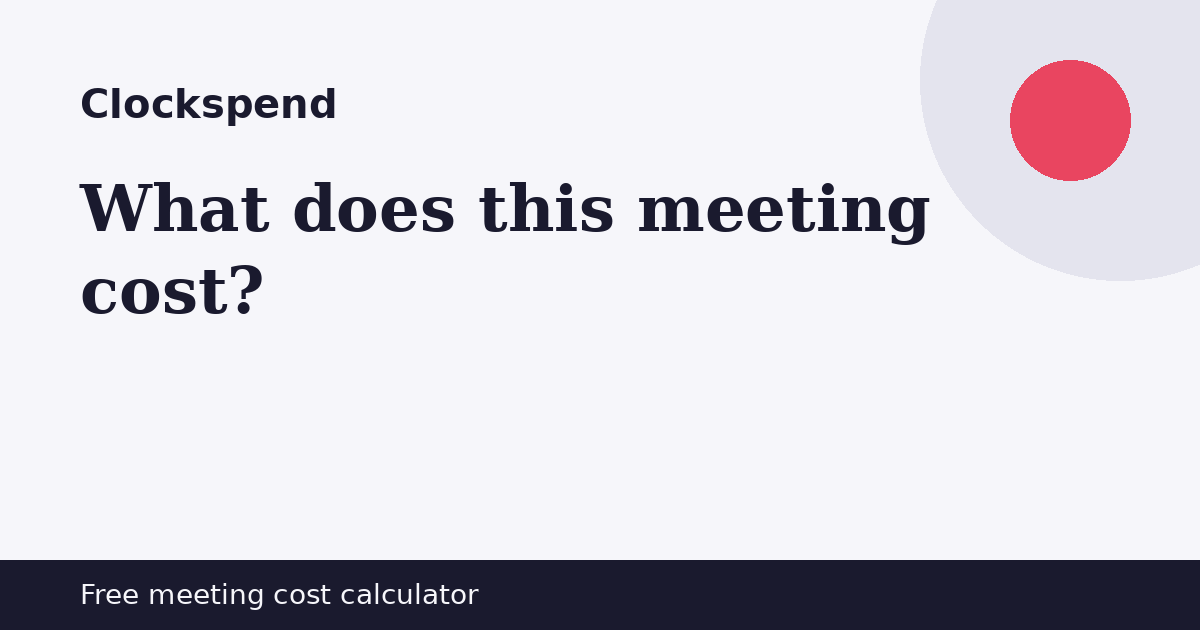
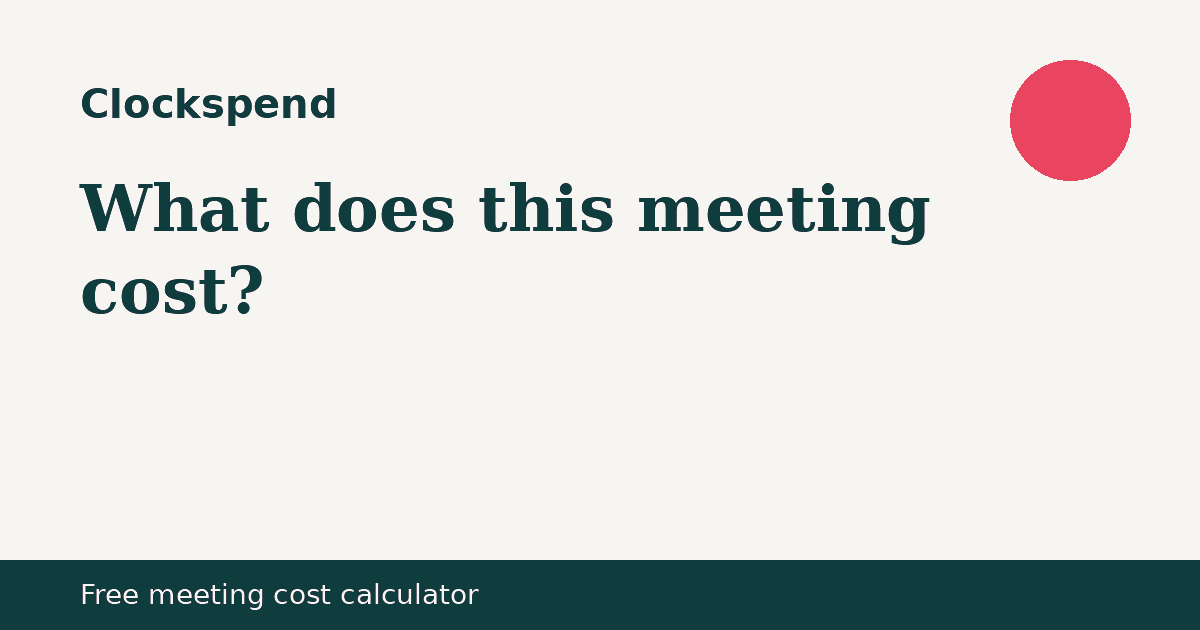
Publish site 2026-11-09 07:39 GMT

diff --git a/index.html b/index.html
@@ -7,7 +7,7 @@
 <meta name="referrer" content="strict-origin-when-cross-origin">
 <title>Clockspend: What does this meeting cost?</title>
 <meta name="description" content="A free calculator showing what a meeting costs in salary time.">
-<meta name="theme-color" content="#1A1A2E">
+<meta name="theme-color" content="#0F3D3E">
 <meta property="og:type" content="website"><meta property="og:title" content="Clockspend: What does this meeting cost?"><meta property="og:description" content="A free calculator showing what a meeting costs in salary time.">
 <meta property="og:image" content="https://evanturner557-del.github.io/clockspend/assets/og.png"><meta property="og:image:width" content="1200"><meta property="og:image:height" content="630">
 <meta property="og:image:alt" content="Clockspend: What does this meeting cost?"><meta property="og:site_name" content="Clockspend"><meta property="og:locale" content="en_GB">
@@ -21,9 +21,9 @@
 </head>
 <body>
 <a class="skip" href="#main">Skip to content</a>
-<header><div class="wrap top"><a class="brand" href="./"><svg viewBox="0 0 64 64" aria-hidden="true" width="34" height="34"><circle cx="32" cy="32" r="32" fill="#1A1A2E"/><text x="32" y="43" text-anchor="middle" font-family="Georgia, serif" font-weight="700" font-size="30" fill="#F6F6FA">C</text><circle cx="50" cy="50" r="6" fill="#E94560"/></svg>Clockspend</a><nav aria-label="Primary"><a href="#tool">The tool</a><a href="#faq">Questions</a><a href="#contact">Contact</a></nav></div></header>
+<header><div class="wrap top"><a class="brand" href="./"><svg viewBox="0 0 64 64" aria-hidden="true" width="34" height="34"><circle cx="32" cy="32" r="32" fill="#0F3D3E"/><text x="32" y="43" text-anchor="middle" font-family="Georgia, serif" font-weight="700" font-size="30" fill="#F7F5F2">C</text><circle cx="50" cy="50" r="6" fill="#E94560"/></svg>Clockspend</a><nav aria-label="Primary"><a href="#tool">The tool</a><a href="#faq">Questions</a><a href="#contact">Contact</a></nav></div></header>
 <main id="main">
-<section class="hero"><div class="wrap"><div class="inner"><div><span class="eyebrow">Free tool · Free meeting cost calculator</span><h1>What does this meeting cost?</h1><p class="lede">Enter the attendees, a typical hourly cost and the length. Clockspend shows the cost of the meeting in salary time. Worth a look before booking the next weekly catch-up.</p><div class="ctas"><a class="btn" href="#tool" data-cta="hero">Use the tool</a><a class="btn ghost" href="#faq" data-cta="hero-secondary">Questions</a></div></div><div class="art"><svg viewBox="0 0 400 400" aria-hidden="true" focusable="false" class="motif"><circle cx="200" cy="200" r="150" fill="#1A1A2E"/><circle cx="200" cy="200" r="130" fill="#F6F6FA"/><rect x="196" y="82" width="8" height="22" rx="4" fill="#1A1A2E" transform="rotate(0 200 200)"/><rect x="196" y="82" width="8" height="22" rx="4" fill="#1A1A2E" transform="rotate(30 200 200)"/><rect x="196" y="82" width="8" height="22" rx="4" fill="#1A1A2E" transform="rotate(60 200 200)"/><rect x="196" y="82" width="8" height="22" rx="4" fill="#1A1A2E" transform="rotate(90 200 200)"/><rect x="196" y="82" width="8" height="22" rx="4" fill="#1A1A2E" transform="rotate(120 200 200)"/><rect x="196" y="82" width="8" height="22" rx="4" fill="#1A1A2E" transform="rotate(150 200 200)"/><rect x="196" y="82" width="8" height="22" rx="4" fill="#1A1A2E" transform="rotate(180 200 200)"/><rect x="196" y="82" width="8" height="22" rx="4" fill="#1A1A2E" transform="rotate(210 200 200)"/><rect x="196" y="82" width="8" height="22" rx="4" fill="#1A1A2E" transform="rotate(240 200 200)"/><rect x="196" y="82" width="8" height="22" rx="4" fill="#1A1A2E" transform="rotate(270 200 200)"/><rect x="196" y="82" width="8" height="22" rx="4" fill="#1A1A2E" transform="rotate(300 200 200)"/><rect x="196" y="82" width="8" height="22" rx="4" fill="#1A1A2E" transform="rotate(330 200 200)"/><rect x="194" y="120" width="12" height="90" rx="6" fill="#1A1A2E"/><circle cx="266" cy="200" r="34" fill="#E94560"/><circle cx="266" cy="200" r="22" fill="#F6F6FA"/><rect x="200" y="196" width="50" height="8" fill="#E94560"/><circle cx="200" cy="200" r="12" fill="#1A1A2E"/></svg></div></div></div></section>
+<section class="hero"><div class="wrap"><div class="inner"><div><span class="eyebrow">Free tool · Free meeting cost calculator</span><h1>What does this meeting cost?</h1><p class="lede">Enter the attendees, a typical hourly cost and the length. Clockspend shows the cost of the meeting in salary time. Worth a look before booking the next weekly catch-up.</p><div class="ctas"><a class="btn" href="#tool" data-cta="hero">Use the tool</a><a class="btn ghost" href="#faq" data-cta="hero-secondary">Questions</a></div></div><div class="art"><svg viewBox="0 0 400 400" aria-hidden="true" focusable="false" class="motif"><circle cx="200" cy="200" r="150" fill="#0F3D3E"/><circle cx="200" cy="200" r="130" fill="#F7F5F2"/><rect x="196" y="82" width="8" height="22" rx="4" fill="#0F3D3E" transform="rotate(0 200 200)"/><rect x="196" y="82" width="8" height="22" rx="4" fill="#0F3D3E" transform="rotate(30 200 200)"/><rect x="196" y="82" width="8" height="22" rx="4" fill="#0F3D3E" transform="rotate(60 200 200)"/><rect x="196" y="82" width="8" height="22" rx="4" fill="#0F3D3E" transform="rotate(90 200 200)"/><rect x="196" y="82" width="8" height="22" rx="4" fill="#0F3D3E" transform="rotate(120 200 200)"/><rect x="196" y="82" width="8" height="22" rx="4" fill="#0F3D3E" transform="rotate(150 200 200)"/><rect x="196" y="82" width="8" height="22" rx="4" fill="#0F3D3E" transform="rotate(180 200 200)"/><rect x="196" y="82" width="8" height="22" rx="4" fill="#0F3D3E" transform="rotate(210 200 200)"/><rect x="196" y="82" width="8" height="22" rx="4" fill="#0F3D3E" transform="rotate(240 200 200)"/><rect x="196" y="82" width="8" height="22" rx="4" fill="#0F3D3E" transform="rotate(270 200 200)"/><rect x="196" y="82" width="8" height="22" rx="4" fill="#0F3D3E" transform="rotate(300 200 200)"/><rect x="196" y="82" width="8" height="22" rx="4" fill="#0F3D3E" transform="rotate(330 200 200)"/><rect x="194" y="120" width="12" height="90" rx="6" fill="#0F3D3E"/><circle cx="266" cy="200" r="34" fill="#E94560"/><circle cx="266" cy="200" r="22" fill="#F7F5F2"/><rect x="200" y="196" width="50" height="8" fill="#E94560"/><circle cx="200" cy="200" r="12" fill="#0F3D3E"/></svg></div></div></div></section>
 <section id="tool"><div class="wrap"><span class="eyebrow">Free, no sign-up</span><h2>A free calculator showing what a meeting costs in salary time.</h2><form class="tool" id="calc" novalidate><div class="row"><label for="t-people">People in the meeting</label><input type="number" id="t-people" data-k="people" value="6" step="1" min="0" inputmode="decimal"></div><div class="row"><label for="t-rate">Typical hourly cost per person (£)</label><input type="number" id="t-rate" data-k="rate" value="25" step="1" min="0" inputmode="decimal"></div><div class="row"><label for="t-mins">Length (minutes)</label><input type="number" id="t-mins" data-k="mins" value="60" step="5" min="0" inputmode="decimal"></div><div class="row"><label for="t-weekly">Times per year</label><input type="number" id="t-weekly" data-k="weekly" value="48" step="1" min="0" inputmode="decimal"></div><div class="result" id="result" role="status" aria-live="polite"></div><p class="fine">Calculated in your browser. Nothing is sent or stored.</p></form></div></section>
 <section class="tint" id="price"><div class="wrap"><span class="eyebrow">Cost</span><div class="pricebox"><p class="price">Free</p><p>The tool is free to use. There is nothing to buy.</p></div></div></section>
 <section id="faq"><div class="wrap"><span class="eyebrow">Questions</span><h2>Common questions</h2><details><summary>What hourly cost should I use?</summary><p>Salary plus employer costs, divided by working hours. A rough average is fine.</p></details><details><summary>Is anything stored?</summary><p>No. It runs in your browser.</p></details><details><summary>Do you sell anything?</summary><p>No. It&#x27;s just a calculator.</p></details><p class="fine mt">Clockspend gives a rough estimate only.</p></div></section>

diff --git a/privacy.html b/privacy.html
@@ -7,7 +7,7 @@
 <meta name="referrer" content="strict-origin-when-cross-origin">
 <title>Privacy notice | Clockspend</title>
 <meta name="description" content="Privacy notice for Clockspend.">
-<meta name="theme-color" content="#1A1A2E">
+<meta name="theme-color" content="#0F3D3E">
 <meta property="og:type" content="website"><meta property="og:title" content="Privacy notice | Clockspend"><meta property="og:description" content="Privacy notice for Clockspend.">
 <meta property="og:image" content="https://evanturner557-del.github.io/clockspend/assets/og.png"><meta property="og:image:width" content="1200"><meta property="og:image:height" content="630">
 <meta property="og:image:alt" content="Clockspend: What does this meeting cost?"><meta property="og:site_name" content="Clockspend"><meta property="og:locale" content="en_GB">
@@ -21,7 +21,7 @@
 </head>
 <body>
 <a class="skip" href="#main">Skip to content</a>
-<header><div class="wrap top"><a class="brand" href="./"><svg viewBox="0 0 64 64" aria-hidden="true" width="34" height="34"><circle cx="32" cy="32" r="32" fill="#1A1A2E"/><text x="32" y="43" text-anchor="middle" font-family="Georgia, serif" font-weight="700" font-size="30" fill="#F6F6FA">C</text><circle cx="50" cy="50" r="6" fill="#E94560"/></svg>Clockspend</a><nav aria-label="Primary"><a href="#tool">The tool</a><a href="#faq">Questions</a><a href="#contact">Contact</a></nav></div></header><main id="main"><section><div class="wrap legal"><h1>Privacy notice</h1><p class="fine">Last updated 20 October 2026</p>
+<header><div class="wrap top"><a class="brand" href="./"><svg viewBox="0 0 64 64" aria-hidden="true" width="34" height="34"><circle cx="32" cy="32" r="32" fill="#0F3D3E"/><text x="32" y="43" text-anchor="middle" font-family="Georgia, serif" font-weight="700" font-size="30" fill="#F7F5F2">C</text><circle cx="50" cy="50" r="6" fill="#E94560"/></svg>Clockspend</a><nav aria-label="Primary"><a href="#tool">The tool</a><a href="#faq">Questions</a><a href="#contact">Contact</a></nav></div></header><main id="main"><section><div class="wrap legal"><h1>Privacy notice</h1><p class="fine">Last updated 20 October 2026</p>
 <p><span>Operated by a UK sole trader trading as Clockspend. Contact: localreply+clockspend@agentmail.to. Postal address available on written request.</span> We are the controller for the personal data described here. For anything in this notice, email <a href="mailto:localreply+clockspend@agentmail.to">localreply+clockspend@agentmail.to</a> with “Clockspend” in the subject line.</p>
 <h2>What we collect</h2><p>If you email us, we receive your name, email address, anything you write in your message and, if you give it, your postcode or town. We use it only to deal with your enquiry. We can&#x27;t promise a reply or a timeframe yet.</p><p>The calculator or checklist runs entirely in your browser. What you type into it is not sent to us or stored.</p>
 <h2>Lawful basis</h2><p>Replying to an enquiry you send us is in our legitimate interests, or steps taken at your request before any agreement (UK GDPR Article 6(1)(f) and 6(1)(b)).</p>

diff --git a/terms.html b/terms.html
@@ -7,7 +7,7 @@
 <meta name="referrer" content="strict-origin-when-cross-origin">
 <title>Terms of use | Clockspend</title>
 <meta name="description" content="Terms of use for Clockspend.">
-<meta name="theme-color" content="#1A1A2E">
+<meta name="theme-color" content="#0F3D3E">
 <meta property="og:type" content="website"><meta property="og:title" content="Terms of use | Clockspend"><meta property="og:description" content="Terms of use for Clockspend.">
 <meta property="og:image" content="https://evanturner557-del.github.io/clockspend/assets/og.png"><meta property="og:image:width" content="1200"><meta property="og:image:height" content="630">
 <meta property="og:image:alt" content="Clockspend: What does this meeting cost?"><meta property="og:site_name" content="Clockspend"><meta property="og:locale" content="en_GB">
@@ -21,7 +21,7 @@
 </head>
 <body>
 <a class="skip" href="#main">Skip to content</a>
-<header><div class="wrap top"><a class="brand" href="./"><svg viewBox="0 0 64 64" aria-hidden="true" width="34" height="34"><circle cx="32" cy="32" r="32" fill="#1A1A2E"/><text x="32" y="43" text-anchor="middle" font-family="Georgia, serif" font-weight="700" font-size="30" fill="#F6F6FA">C</text><circle cx="50" cy="50" r="6" fill="#E94560"/></svg>Clockspend</a><nav aria-label="Primary"><a href="#tool">The tool</a><a href="#faq">Questions</a><a href="#contact">Contact</a></nav></div></header><main id="main"><section><div class="wrap legal"><h1>Terms of use</h1><p class="fine">Last updated 19 October 2026</p>
+<header><div class="wrap top"><a class="brand" href="./"><svg viewBox="0 0 64 64" aria-hidden="true" width="34" height="34"><circle cx="32" cy="32" r="32" fill="#0F3D3E"/><text x="32" y="43" text-anchor="middle" font-family="Georgia, serif" font-weight="700" font-size="30" fill="#F7F5F2">C</text><circle cx="50" cy="50" r="6" fill="#E94560"/></svg>Clockspend</a><nav aria-label="Primary"><a href="#tool">The tool</a><a href="#faq">Questions</a><a href="#contact">Contact</a></nav></div></header><main id="main"><section><div class="wrap legal"><h1>Terms of use</h1><p class="fine">Last updated 19 October 2026</p>
 <p><span>Operated by a UK sole trader trading as Clockspend. Contact: localreply+clockspend@agentmail.to. Postal address available on written request.</span> Email: <a href="mailto:localreply+clockspend@agentmail.to">localreply+clockspend@agentmail.to</a>.</p>
 <h2>About this website</h2><p>This website describes Clockspend: a free calculator showing what a meeting costs in salary time. Nothing can be bought or paid for on this website. Sending an enquiry does not create a contract.</p>
 <h2>Prices</h2><p>Free. The tool is free to use and there is nothing to buy.</p><h2>The free tool</h2><p>The tool gives estimates for general information. Check important figures with the official source named on the page before relying on them. We are not liable for decisions made using it.</p>

diff --git a/404.html b/404.html
@@ -7,7 +7,7 @@
 <meta name="referrer" content="strict-origin-when-cross-origin">
 <title>Page not found | Clockspend</title>
 <meta name="description" content="Page not found for Clockspend.">
-<meta name="theme-color" content="#1A1A2E">
+<meta name="theme-color" content="#0F3D3E">
 <meta property="og:type" content="website"><meta property="og:title" content="Page not found | Clockspend"><meta property="og:description" content="Page not found for Clockspend.">
 <meta property="og:image" content="https://evanturner557-del.github.io/clockspend/assets/og.png"><meta property="og:image:width" content="1200"><meta property="og:image:height" content="630">
 <meta property="og:image:alt" content="Clockspend: What does this meeting cost?"><meta property="og:site_name" content="Clockspend"><meta property="og:locale" content="en_GB">
@@ -21,7 +21,7 @@
 </head>
 <body>
 <a class="skip" href="#main">Skip to content</a>
-<header><div class="wrap top"><a class="brand" href="./"><svg viewBox="0 0 64 64" aria-hidden="true" width="34" height="34"><circle cx="32" cy="32" r="32" fill="#1A1A2E"/><text x="32" y="43" text-anchor="middle" font-family="Georgia, serif" font-weight="700" font-size="30" fill="#F6F6FA">C</text><circle cx="50" cy="50" r="6" fill="#E94560"/></svg>Clockspend</a><nav aria-label="Primary"><a href="#tool">The tool</a><a href="#faq">Questions</a><a href="#contact">Contact</a></nav></div></header><main id="main"><section><div class="wrap legal"><h1>Page not found</h1><p>That page doesn't exist. <a href="./">Go to the Clockspend home page</a>.</p></div></section></main><footer><div class="wrap"><p>Operated by a UK sole trader trading as Clockspend. Contact: localreply+clockspend@agentmail.to. Postal address available on written request.</p>
+<header><div class="wrap top"><a class="brand" href="./"><svg viewBox="0 0 64 64" aria-hidden="true" width="34" height="34"><circle cx="32" cy="32" r="32" fill="#0F3D3E"/><text x="32" y="43" text-anchor="middle" font-family="Georgia, serif" font-weight="700" font-size="30" fill="#F7F5F2">C</text><circle cx="50" cy="50" r="6" fill="#E94560"/></svg>Clockspend</a><nav aria-label="Primary"><a href="#tool">The tool</a><a href="#faq">Questions</a><a href="#contact">Contact</a></nav></div></header><main id="main"><section><div class="wrap legal"><h1>Page not found</h1><p>That page doesn't exist. <a href="./">Go to the Clockspend home page</a>.</p></div></section></main><footer><div class="wrap"><p>Operated by a UK sole trader trading as Clockspend. Contact: localreply+clockspend@agentmail.to. Postal address available on written request.</p>
 <p><a href="privacy.html">Privacy</a><a href="terms.html">Terms</a><a href="./#contact">Contact</a></p>
 <p class="fine">Clockspend gives a rough estimate only.</p></div></footer>
 </body></html>
